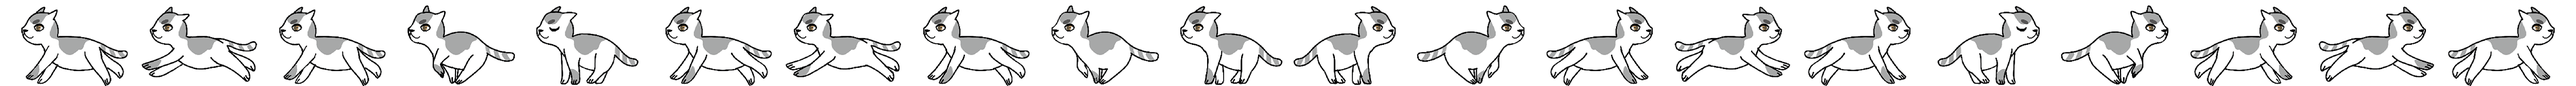
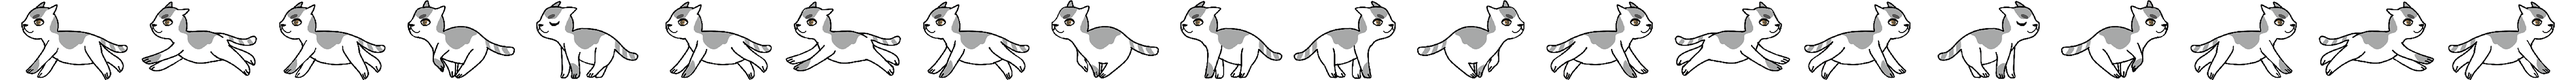
Cat animation fully working

diff --git a/src/scenes/gameScene.ts b/src/scenes/gameScene.ts
@@ -91,83 +91,85 @@ export class GameScene extends Phaser.Scene {
                  .setSize(800, 20)
                  .setDisplaySize(800, 4);
     ground.setImmovable(true);
-    // box1 = this.physics.add.image(400, 200,
-    // 'boxfixe01').setDisplaySize(328*0.3, 265*0.3); box1d =
-    // this.physics.add.image(400, 400, 'boxfixe01d').setDisplaySize(328*0.3,
-    // 265*0.3);
 
-    // box1.setImmovable(true);
-    // box1d.setImmovable(true);
-
-    this.playerAlive = new Player(this.physics.add.sprite(40, -50, 'catalive')
-                                      .setGravity(0, constants.PLAYER_GRAVITY)
-                                      .setMass(100)
-                                      .setSize(250, 167)
-                                      .setDisplaySize(250 * 0.3, 167 * 0.3));
-    this.playerAlive.gameObject.setOrigin(0.5, 1);
-    this.playerDead = new Player(this.physics.add.sprite(40, 50, 'catdead')
-                                     .setGravity(0, -constants.PLAYER_GRAVITY)
-                                     .setMass(100)
-                                     .setSize(329, 172)
-                                     .setDisplaySize(109 * 0.6, 57 * 0.6));
-    this.playerDead.gameObject.setOrigin(0.5, 0);
+    this.playerAlive = new Player(this, true);
+    this.playerDead = new Player(this, false);
     this.controlledPlayer = this.playerAlive;
 
     // ANIMATIONS CATALIVE
     this.anims.create({
-      key : 'left-alive',
-      frames :
-          this.anims.generateFrameNumbers('catalive', {start : 0, end : 7}),
-      frameRate : 10,
-      repeat : -1
+      key: 'left-alive',
+      frames: this.anims.generateFrameNumbers('catalive', {start: 0, end: 9}),
+      frameRate: 10,
+      repeat: -1
     });
 
     this.anims.create({
-      key : 'turn-alive',
-      frames : [ {key : 'catalive', frame : 8} ],
-      frameRate : 20
+      key: 'idle-alive-left',
+      frames: [ {key: 'catalive', frame: 9} ],
+      frameRate: 20
+    });
+    this.anims.create({
+      key: 'idle-alive-right',
+      frames: [ {key: 'catalive', frame: 10} ],
+      frameRate: 20
     });
 
     this.anims.create({
-      key : 'right-alive',
-      frames :
-          this.anims.generateFrameNumbers('catalive', {start : 8, end : 15}),
-      frameRate : 10,
-      repeat : -1
+      key: 'right-alive',
+      frames: this.anims.generateFrameNumbers('catalive', {start: 10, end: 19}),
+      frameRate: 10,
+      repeat: -1
     });
 
     this.anims.create({
-      key : 'jump-alive',
-      frames : [ {key : 'catalive', frame : 14} ],
-      frameRate : 10,
+      key: 'jump-alive-left',
+      frames: [ {key: 'catalive', frame: 6} ],
+      frameRate: 10,
+    });
+    this.anims.create({
+      key: 'jump-alive-right',
+      frames: [ {key: 'catalive', frame: 14} ],
+      frameRate: 10,
     });
 
     // ANIMATIONS CATDEAD
     this.anims.create({
-      key : 'left-dead',
-      frames : this.anims.generateFrameNumbers('catdead', {start : 0, end : 7}),
-      frameRate : 10,
-      repeat : -1
+      key: 'left-dead',
+      frames: this.anims.generateFrameNumbers('catdead', {start: 0, end: 9}),
+      frameRate: 10,
+      repeat: -1
     });
 
     this.anims.create({
-      key : 'turn-dead',
-      frames : [ {key : 'catdead', frame : 8} ],
-      frameRate : 20
+      key: 'idle-dead-left',
+      frames: [ {key: 'catdead', frame: 9} ],
+      frameRate: 20
     });
 
     this.anims.create({
-      key : 'right-dead',
-      frames :
-          this.anims.generateFrameNumbers('catdead', {start : 8, end : 15}),
-      frameRate : 10,
-      repeat : -1
+      key: 'idle-dead-right',
+      frames: [ {key: 'catdead', frame: 10} ],
+      frameRate: 20
     });
 
     this.anims.create({
-      key : 'jump-dead',
-      frames : [ {key : 'catdead', frame : 14} ],
-      frameRate : 10,
+      key: 'right-dead',
+      frames: this.anims.generateFrameNumbers('catdead', {start: 10, end: 19}),
+      frameRate: 10,
+      repeat: -1
+    });
+
+    this.anims.create({
+      key: 'jump-dead-left',
+      frames: [ {key: 'catdead', frame: 6} ],
+      frameRate: 10,
+    });
+
+    this.anims.create({
+      key: 'jump-dead-right',
+      frames: [ {key: 'catdead', frame: 14} ],
+      frameRate: 10,
     });
 
     this.physics.add.collider([this.playerAlive.gameObject, this.playerDead.gameObject], ground);
@@ -179,17 +181,19 @@ export class GameScene extends Phaser.Scene {
 
         this.physics.add.overlap(
             [ this.playerAlive.gameObject, this.playerDead.gameObject ],
-            this.level.switchAliveGroup, function collectSwitch(player, switchAlive: any) {
+            this.level.switchAliveGroup, (player, switchAlive: any) => {
               switchAlive.disableBody(true, true);
               this.targetGroundPositionY += constants.BLOCKH;
-            }, null, this);
+            }, null, this
+        );
 
         this.physics.add.overlap(
             [ this.playerAlive.gameObject, this.playerDead.gameObject ],
-            this.level.switchDeadGroup, function collectSwitch(player, switchAlive: any) {
-                  switchAlive.disableBody(true, true);
-                  this.targetGroundPositionY -= constants.BLOCKH;
-                }, null, this);
+            this.level.switchDeadGroup, (player, switchAlive: any) => {
+              switchAlive.disableBody(true, true);
+              this.targetGroundPositionY -= constants.BLOCKH;
+            }, null, this
+        );
   }
 
   update(time, delta) {
@@ -199,8 +203,7 @@ export class GameScene extends Phaser.Scene {
     // ground.setPosition(0,Math.sin(delta/1000)*100+300);
 
     // UPDATE GROUND IF NEEDED
-    const groundPositionDiff =
-        this.targetGroundPositionY - this.currentGroundPositionY;
+    const groundPositionDiff = this.targetGroundPositionY - this.currentGroundPositionY;
     if (Math.abs(groundPositionDiff) > 0.000001) {
       if (groundPositionDiff < 0) {
         this.currentGroundPositionY -= delta * constants.BLOCKH * constants.GROUND_SPEED;
@@ -218,56 +221,53 @@ export class GameScene extends Phaser.Scene {
       if (this.playerAlive.gameObject.y > ground.y) {
         this.playerAlive.gameObject.y = ground.y;
       }
-    } else {
     }
 
-    // LEFT-RIGHT
-    this.controlledPlayer.gameObject.setVelocityX(inputData.deltaX *
-                                                  constants.PLAYER_XVELOCITY);
-    // ANIMATIONS
-    // if (this.controlledPlayer === this.playerAlive){
-
-    //}
-    // if (this.controlledPlayer === this.playerDead){
-
-    //}
-
-    if (inputData.deltaX < 0) {
-      this.controlledPlayer.gameObject.anims.play('left-alive', true);
-    } else if (inputData.deltaX > 0) {
-      this.controlledPlayer.gameObject.anims.play('right-alive', true);
-    } else {
-      this.controlledPlayer.gameObject.anims.play('turn-alive', true)
-    }
-
-    // JUMP
+    // CAT precalc useful values
     let mult = 1;
     if (this.controlledPlayer.gameObject.body.gravity.y < 0) {
       mult = -1;
     }
-    const isTouchingFloor =
-        ((mult > 0 && this.controlledPlayer.gameObject.body.touching.down) ||
-         (mult < 0 && this.controlledPlayer.gameObject.body.touching.up));
-    if (inputData.jumpDown && isTouchingFloor) {
-      this.controlledPlayer.gameObject.setVelocityY(mult *
-                                                    -constants.JUMP_VELOCITY);
+    const isTouchingFloor = (
+      (mult > 0 && this.controlledPlayer.gameObject.body.touching.down) ||
+      (mult < 0 && this.controlledPlayer.gameObject.body.touching.up)
+    );
+
+    // LEFT-RIGHT
+    this.controlledPlayer.gameObject.setVelocityX(inputData.deltaX * constants.PLAYER_XVELOCITY);
+
+    //Save the direction when not idle, so we can keep the current orientation when not moving
+    if (inputData.deltaX !== 0) {
+      if (inputData.deltaX > 0) {
+        this.controlledPlayer.currentDirection = 1;
+      }
+      else {
+        this.controlledPlayer.currentDirection = -1;
+      }
     }
-    if (inputData.jumpDown && !isTouchingFloor) {
-      this.controlledPlayer.gameObject.anims.play('jump-alive', true);
+    // JUMP
+    if (inputData.jumpDown && isTouchingFloor) {
+      this.controlledPlayer.gameObject.setVelocityY(mult * -constants.JUMP_VELOCITY);
     }
 
     // SWITCH
     if (inputData.switchPressed) {
-        console.log('SWITCH PRESSED');
-        if(this.controlledPlayer === this.playerAlive) {
-          this.controlledPlayer.gameObject.setVelocityX(0);
-          this.controlledPlayer = this.playerDead;
-        }
-        else /* if (this.controlledPlayer === this.playerDead) */ {
-          this.controlledPlayer.gameObject.setVelocityX(0);
-          this.controlledPlayer = this.playerAlive;
-        }
+      console.log('SWITCH PRESSED');
+      if(this.controlledPlayer === this.playerAlive) {
+        this.controlledPlayer.gameObject.setVelocityX(0);
+        this.controlledPlayer = this.playerDead;
       }
+      else /* if (this.controlledPlayer === this.playerDead) */ {
+        this.controlledPlayer.gameObject.setVelocityX(0);
+        this.controlledPlayer = this.playerAlive;
+      }
+    }
+
+
+    // ANIMATIONS
+    this.playerAlive.updateAnimation(this.controlledPlayer === this.playerAlive, inputData, isTouchingFloor);
+    this.playerDead.updateAnimation(this.controlledPlayer === this.playerDead, inputData, isTouchingFloor);
+
 
     // DEBUG
     if (inputData.goLifePressed) {

diff --git a/src/classes/player.ts b/src/classes/player.ts
@@ -1,11 +1,67 @@
-/**
+import { InputData } from './inputManager';
+import constants from '../constants';
 
-*/
 export class Player {
     public gameObject: Phaser.Types.Physics.Arcade.SpriteWithDynamicBody;
+    public currentDirection: number = 1;
+    private readonly isAlive: boolean;
+    private readonly animType: string;
 
-    constructor(gameObject: Phaser.Types.Physics.Arcade.SpriteWithDynamicBody) {
-        this.gameObject = gameObject;
+    constructor(gameScene: Phaser.Scene, isAlive: boolean) {
+        const x = 40;
+        const y = isAlive ? -50 : 50;
+
+        this.isAlive = isAlive;
+        this.animType = this.isAlive ? 'alive' : 'dead';
+
+        this.gameObject = (
+          gameScene.physics.add.sprite(x, y, isAlive ? 'catalive' : 'catdead')
+            .setGravity(0, (isAlive ? 1 : -1) * constants.PLAYER_GRAVITY)
+            .setMass(100)
+            .setSize(250, 157)
+            .setDisplaySize(250 * 0.3, 157 * 0.3)
+        );
+        this.gameObject.body.debugBodyColor = 0x00ff0000;
         this.gameObject.setCollideWorldBounds(true);
+        if (isAlive) {
+            this.gameObject.setOrigin(0.5, 1);
+        }
+        else {
+            this.gameObject.setOrigin(0.5, 0);
+        }
+    }
+
+    updateAnimation(isControlled: boolean, inputData: InputData, isTouchingFloor: boolean) {
+        if (!isControlled) {
+            if (this.currentDirection === -1) {
+                this.gameObject.anims.play(`idle-${this.animType}-left`, true);
+            }
+            else {
+                this.gameObject.anims.play(`idle-${this.animType}-right`, true);
+            }
+        }
+        else {
+            if (inputData.deltaX < 0 && isTouchingFloor) {
+                this.gameObject.anims.play(`left-${this.animType}`, true);
+            }
+            else if (inputData.deltaX > 0 && isTouchingFloor) {
+                this.gameObject.anims.play(`right-${this.animType}`, true);
+            }
+            else if (this.currentDirection === -1) {
+                this.gameObject.anims.play(`idle-${this.animType}-left`, true);
+            }
+            else {
+                this.gameObject.anims.play(`idle-${this.animType}-right`, true);
+            }
+
+            if (!isTouchingFloor) {
+                if (this.currentDirection === -1) {
+                    this.gameObject.anims.play(`jump-${this.animType}-left`, true);
+                }
+                else {
+                    this.gameObject.anims.play(`jump-${this.animType}-right`, true);
+                }
+            }
+        }
     }
 }
